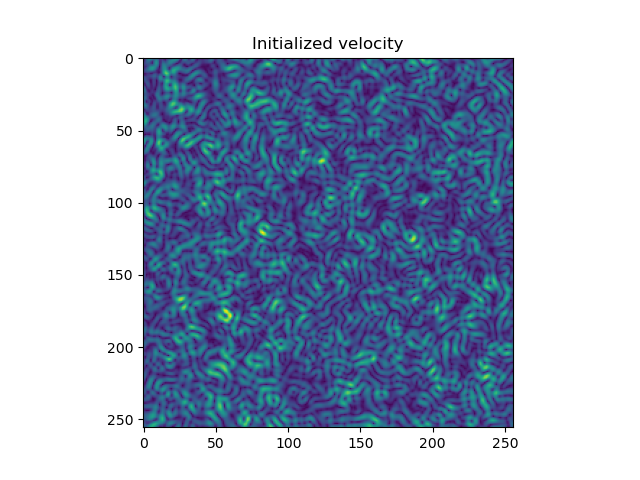
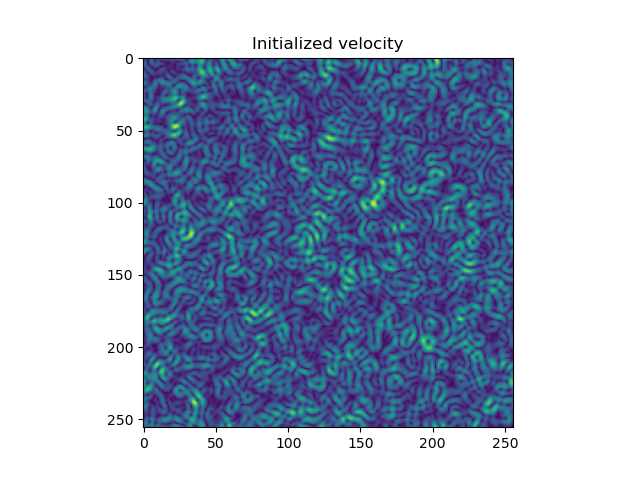
modified:   energy_spectrum.png 	new file:   energy_spectrum_D2Q21.png 	new file:   energy_spectrum_D2Q9.png 	modified:   energy_spectrum_initialized.png 	new file:   energy_spectrum_initialized_D2Q21.png 	new file:   energy_spectrum_initialized_D2Q9.png 	new file:   examples/DT_D2Q21.py 	renamed:  

Changed region(s): [[0.2188, 0.125, 0.8125, 0.9062]]

diff --git a/examples/DT_D2Q9.py b/examples/DT_D2Q9.py
@@ -2,8 +2,9 @@ import lettuce as lt
 import matplotlib.pyplot as plt
 import numpy as np
 lattice = lt.Lattice(lt.D2Q9, device = "cuda", use_native=False)
-flow = lt.DecayingTurbulence(resolution=256, reynolds_number=10000, mach_number=0.05, lattice=lattice)
+flow = lt.DecayingTurbulence(resolution=256, reynolds_number=1000, mach_number=0.01, lattice=lattice)
 collision = lt.BGKCollision(lattice, tau=flow.units.relaxation_parameter_lu)
+print("tau:", flow.units.relaxation_parameter_lu)
 streaming = lt.StandardStreaming(lattice)
 simulation = lt.Simulation(flow=flow, lattice=lattice, collision=collision, streaming=streaming)
 energyspectrum = lt.EnergySpectrum(lattice, flow)
@@ -12,16 +13,18 @@ simulation.reporters.append(reporter)
 
 u = lattice.convert_to_numpy(flow.units.convert_velocity_to_pu(lattice.u(simulation.f)))
 u_norm = np.linalg.norm(u,axis=0)
+plt.figure()
 plt.imshow(u_norm)
 plt.title('Initialized velocity')
-plt.savefig('initialized_velocity.png')
+plt.savefig('initialized_velocity_D2Q9.png')
 
 spectrum = flow.energy_spectrum
+plt.figure()
 plt.loglog(spectrum[1],spectrum[0])
 plt.title('Energy spectrum')
 plt.xlabel('Wavenumber')
 plt.ylabel('Energy')
-plt.savefig('energy_spectrum_initialized.png')
+plt.savefig('energy_spectrum_initialized_D2Q9.png')
 
 simulation.initialize_pressure()
 simulation.initialize_f_neq()
@@ -30,19 +33,23 @@ print("Performance in MLUPS:", mlups)
 
 u = lattice.convert_to_numpy(flow.units.convert_velocity_to_pu(lattice.u(simulation.f)))
 u_norm = np.linalg.norm(u,axis=0)
+plt.figure()
 plt.imshow(u_norm)
 plt.title('Velocity after simulation')
-plt.savefig('velocity_after_simulation.png')
+plt.savefig('velocity_after_simulation_D2Q9.png')
 
 dx = flow.units.convert_length_to_pu(1.0)
 grad_u0 = np.gradient(u[0], dx)
 grad_u1 = np.gradient(u[1], dx)
 vorticity = (grad_u1[0] - grad_u0[1])
+plt.figure()
 plt.imshow(vorticity, cmap='Spectral')
 plt.title('Vorticity after simulation')
-plt.savefig('vorticity_after_simulation.png')
+plt.savefig('vorticity_after_simulation_D2Q9.png')
 
 spectrum_final = simulation.reporters[0].out[-1]
+
+plt.figure()
 plt.loglog(spectrum[1],spectrum[0],label='Initialized spectrum')
 plt.loglog(spectrum[1],spectrum_final[2:],label='After simulation')
 plt.title('Energy spectrum')
@@ -50,4 +57,4 @@ plt.xlabel('Wavenumber')
 plt.ylabel('Energy')
 plt.ylim(top=1e-1, bottom=1e-8)
 plt.legend()
-plt.savefig('energy_spectrum.png')
+plt.savefig('energy_spectrum_D2Q9.png')

diff --git a/examples/DT_D2Q21.py b/examples/DT_D2Q21.py
@@ -1,0 +1,60 @@
+import lettuce as lt
+import matplotlib.pyplot as plt
+import numpy as np
+lattice = lt.Lattice(lt.D2Q21, device = "cuda", use_native=False)
+flow = lt.DecayingTurbulence(resolution=256, reynolds_number=1000, mach_number=0.01, lattice=lattice)
+collision = lt.BGKCollision(lattice, tau=0.02)
+print("tau:", flow.units.relaxation_parameter_lu)
+streaming = lt.StandardStreaming(lattice)
+simulation = lt.Simulation(flow=flow, lattice=lattice, collision=collision, streaming=streaming)
+energyspectrum = lt.EnergySpectrum(lattice, flow)
+reporter = lt.ObservableReporter(energyspectrum, interval=500, out=None)
+simulation.reporters.append(reporter)
+
+u = lattice.convert_to_numpy(flow.units.convert_velocity_to_pu(lattice.u(simulation.f)))
+u_norm = np.linalg.norm(u,axis=0)
+plt.figure()
+plt.imshow(u_norm)
+plt.title('Initialized velocity')
+plt.savefig('initialized_velocity_D2Q21.png')
+
+spectrum = flow.energy_spectrum
+plt.figure()
+plt.loglog(spectrum[1],spectrum[0])
+plt.title('Energy spectrum')
+plt.xlabel('Wavenumber')
+plt.ylabel('Energy')
+plt.savefig('energy_spectrum_initialized_D2Q21.png')
+
+simulation.initialize_pressure()
+simulation.initialize_f_neq()
+mlups = simulation.step(num_steps=15000)
+print("Performance in MLUPS:", mlups)
+
+u = lattice.convert_to_numpy(flow.units.convert_velocity_to_pu(lattice.u(simulation.f)))
+u_norm = np.linalg.norm(u,axis=0)
+plt.figure()
+plt.imshow(u_norm)
+plt.title('Velocity after simulation')
+plt.savefig('velocity_after_simulation_D2Q21.png')
+
+dx = flow.units.convert_length_to_pu(1.0)
+grad_u0 = np.gradient(u[0], dx)
+grad_u1 = np.gradient(u[1], dx)
+vorticity = (grad_u1[0] - grad_u0[1])
+plt.figure()
+plt.imshow(vorticity, cmap='Spectral')
+plt.title('Vorticity after simulation')
+plt.savefig('vorticity_after_simulation_D2Q21.png')
+
+spectrum_final = simulation.reporters[0].out[-1]
+
+plt.figure()
+plt.loglog(spectrum[1],spectrum[0],label='Initialized spectrum')
+plt.loglog(spectrum[1],spectrum_final[2:],label='After simulation')
+plt.title('Energy spectrum')
+plt.xlabel('Wavenumber')
+plt.ylabel('Energy')
+plt.ylim(top=1e-1, bottom=1e-8)
+plt.legend()
+plt.savefig('energy_spectrum_D2Q21.png')

diff --git a/lettuce/stencils.py b/lettuce/stencils.py
@@ -3,7 +3,7 @@ import numpy as np
 from typing import Optional
 from lettuce.native_generator import NativeStencil
 
-__all__ = ["Stencil", "D1Q3", "D2Q9", "D3Q15", "D3Q19", "D3Q27"]
+__all__ = ["Stencil", "D1Q3", "D2Q9", "D2Q21","D3Q15", "D3Q19", "D3Q27"]
 
 
 class Stencil:
@@ -38,6 +38,23 @@ class D2Q9(Stencil):
     cs = 1 / np.sqrt(3)
     opposite = [0, 3, 4, 1, 2, 7, 8, 5, 6]
 
+'''D2Q21 stencial implemente by Junyi'''
+class D2Q21(Stencil):
+    e = np.array([[0, 0],  # Rest particle
+    [1, 0], [0, 1], [-1, 0], [0, -1],  # Cardinal directions 
+    [1, 1], [-1, 1], [-1, -1], [1, -1],  # Diagonal directions 
+    [2, 0], [0, 2], [-2, 0], [0, -2],  # Next-nearest cardinal 
+    [2, 2], [-2, 2], [-2, -2], [2, -2],  # Next-nearest diagonal (2NE, 2NW, 2SW, 2SE), already CCW
+    [3, 0], [0, 3], [-3, 0], [0, -3],  # Third-nearest cardinal 
+    ])
+    w = np.array([91/324]+
+                4*[1/12]+
+                4*[2/27]+
+                4*[7/360]+
+                4*[1/432]+
+                4*[1/1620])
+    cs = 1 / np.sqrt(3)
+    opposite = [0, 3, 4, 1, 2, 7, 8, 5, 6,11,12,9,10,15,16,13,14,19,20,17,18]
 
 class D3Q15(Stencil):
     e = np.array([
